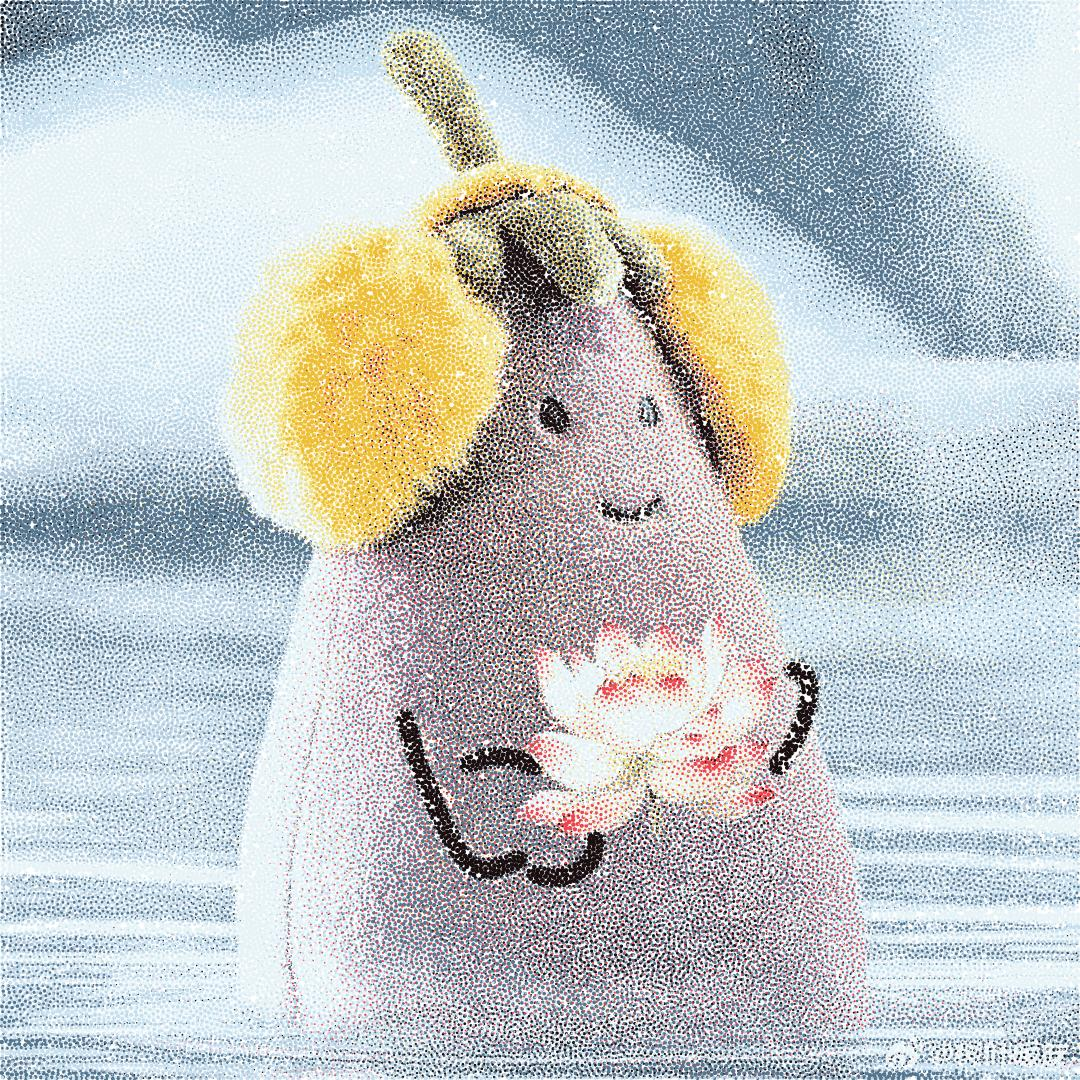
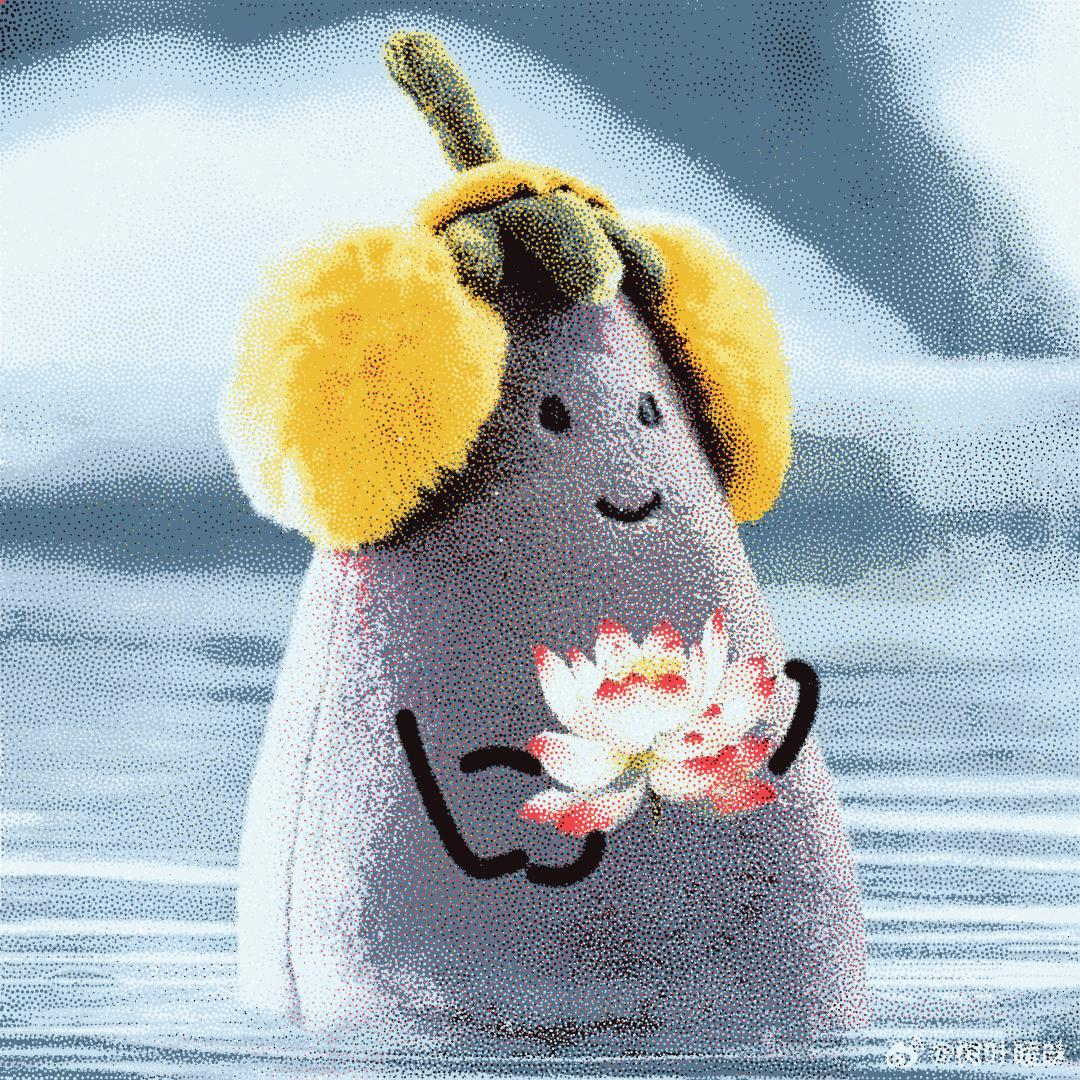
fill with color with bugs

diff --git a/MLBG/src/color.cpp b/MLBG/src/color.cpp
@@ -202,6 +202,142 @@ std::vector<Stipple> MLBG::stippling_color(Canvas *m_canvas, MLBG *m_mlbg, bool 
     return total_stipples;
 }
 
+std::vector<Stipple> MLBG::filling_color(std::vector<Stipple> foregroundStipples, Canvas *m_canvas, MLBG *m_mlbg)
+{
+    std::cout << "================= Begin filling ==================" << std::endl;
+
+    std::vector<Stipple> tempStipples;
+    std::vector<Stipple> backgroundStipples;
+
+    for (int i = 0; i < foregroundStipples.size(); i++) {
+        tempStipples.push_back(foregroundStipples[i]);
+        tempStipples[i].color = Qt::white;
+        // backgroundStipples.push_back(tempStipples[i]);
+        // backgroundStipples[i].size =  20.0f;
+    }
+
+    backgroundStipples.push_back(tempStipples[0]);
+
+//    QImage newImage = m_mlbg->paintBG(m_canvas, tempStipples, 0);
+//    tempStipples.clear();
+//    QImage newDensity = newImage.scaledToWidth(
+//                                    settings.supersampling_factor * newImage.width(),
+//                                    Qt::SmoothTransformation
+//                                    ).convertToFormat(QImage::Format_Grayscale8);
+
+//    QImage originImage = QImage(settings.image_path);
+//    QImage originDensity = originImage.scaledToWidth(
+//                                          settings.supersampling_factor * originImage.width(),
+//                                          Qt::SmoothTransformation
+//                                          ).convertToFormat(QImage::Format_Grayscale8);
+//    //    m_inv_density =
+
+
+
+    printf("here\n");
+
+    // stippling iteration
+    int num_split = 0;
+    int num_merge = 0;
+
+    //    std::this_thread::sleep_for(std::chrono::seconds(3));
+
+
+    for (int i = 0; i < 18; i++)
+    {
+        draw d;
+        std::cout << "Iteration: " << i << std::endl;
+
+        // cells
+        std::vector<Cell> voronoi_cells = generate_voronoi_cells_withDiffBGImage(backgroundStipples, d, m_density);
+//        std::vector<Cell> cells_originImage = generate_voronoi_cells_withDiffBGImage(backgroundStipples, d, originDensity);
+        std::vector< std::vector <Cell> > cells;
+        for (int j = 0; j < m_densities.size(); j++)
+        {
+            cells.push_back(generate_voronoi_cells_withDiffBGImage(backgroundStipples, d, m_densities[j]));
+        }
+
+        std::cout << "Current number of points: " << backgroundStipples.size() << std::endl;
+        //        std::vector<int> merge_indices_map
+
+        // current hysteresis
+        float hysteresis = settings.hysteresis + i * settings.hysteresis_delta;
+
+        backgroundStipples.clear();
+
+        for (unsigned long long cellId = 0; cellId < voronoi_cells.size(); cellId++)
+        {
+            const auto &cell = voronoi_cells[cellId];
+            float point_size = 4.0f;//current_stipple_size(cell);
+
+//            QColor stippleColor;
+//            if (cells_originImage[cellId].average_density >= cells_originImage[cellId].average_density_inv) {
+//                stippleColor = Qt::black;
+//            } else {
+//                stippleColor = Qt::white;
+//            }
+            // 创建一个pair数组，存储值和原始索引
+            std::vector<std::pair<float, int>> indexed_data;
+            for (int layer = 0; layer < cells.size(); layer++) {
+                indexed_data.push_back({cells[layer][cellId].average_density, layer});
+            }
+
+            // 对pair数组进行排序，基于第一个元素（实际的数据值）
+            std::sort(indexed_data.begin(), indexed_data.end());
+
+            // 排序后，最大值的pair在最后一个位置
+            auto& max_value_pair = indexed_data.back();
+//            std::cout << "最大值是: " << max_value_pair.first << std::endl;
+//                    std::cout << "最大值的原始ID (索引) 是: " << max_value_pair.second << std::endl;
+            QColor stippleColor = colors[max_value_pair.second];
+
+            if (false){//cell.total_density < calculate_lower_density_bound(point_size, hysteresis) || cell.area == 0.0f) {// merge
+                num_merge++;
+                d.drawPoints(cell.centroid.x() * m_size.width(), cell.centroid.y() * m_size.height(), stippleColor);
+                d.drawX(cell.centroid.x() * m_size.width(), cell.centroid.y() * m_size.height(), Qt::red);
+            }
+            else if (false){//(cell.total_density < calculate_upper_density_bound(point_size, hysteresis)) {// keep
+                backgroundStipples.push_back({cell.centroid, point_size, stippleColor});
+                d.drawPoints(cell.centroid.x() * m_size.width(), cell.centroid.y() * m_size.height(), stippleColor);
+            }
+            else // split
+            {
+                num_split++;
+                split_cell(backgroundStipples, cell, point_size, stippleColor, false);
+                d.drawPoints(cell.centroid.x() * m_size.width(), cell.centroid.y() * m_size.height(), stippleColor);
+                auto last = backgroundStipples.back();
+                auto secondLast = backgroundStipples[backgroundStipples.size() - 2];
+                d.drawPoints(last.pos.x() * m_size.width(), last.pos.y() * m_size.height(), Qt::green);
+                d.drawPoints(secondLast.pos.x() * m_size.width(), secondLast.pos.y() * m_size.height(), Qt::green);
+            }
+
+
+        }
+
+        if (num_split == 0 && num_merge == 0)
+            break;
+        num_split = 0;
+        num_merge = 0;
+
+        m_mlbg->paint(m_canvas, backgroundStipples, 20);
+
+        // Handle other events, allowing GUI updates
+        QCoreApplication::processEvents();
+
+    }
+
+    for (int i = 0; i < foregroundStipples.size(); i++) {
+        backgroundStipples.push_back(foregroundStipples[i]);
+    }
+
+    m_mlbg->paint(m_canvas, backgroundStipples, 20);
+
+    // Handle other events, allowing GUI updates
+    QCoreApplication::processEvents();
+
+    return foregroundStipples;
+}
+
 
 
 std::vector<Cell> MLBG::generate_voronoi_cells_color(std::vector<Stipple> points, std::vector<int> &indices, int id)

diff --git a/MLBG/src/mainwindow.cpp b/MLBG/src/mainwindow.cpp
@@ -67,6 +67,7 @@ MainWindow::MainWindow()
 //    addPushButton(layout, "Save Image", &MainWindow::onSaveButtonClick);
     addPushButton(layout, "Fill Background", &MainWindow::onFillButtonClick);
     addPushButton(layout, "Color Stippling", &MainWindow::onColorButtonClick);
+    addPushButton(layout, "Fill Color", &MainWindow::onFillColorButtonClick);
 }
 
 
@@ -187,6 +188,13 @@ void MainWindow::onFillButtonClick() {
 void MainWindow::onColorButtonClick() {
     MLBG m_mlbg = MLBG();
     std::vector<Stipple> stipples = m_mlbg.stippling_color(m_canvas, &m_mlbg, false);
+}
+
+void MainWindow::onFillColorButtonClick() {
+    MLBG m_mlbg = MLBG();
+    std::vector<Stipple> stipples = m_mlbg.stippling_color(m_canvas, &m_mlbg, false);
+    std::vector<Stipple> newstipples = m_mlbg.filling_color(stipples, m_canvas, &m_mlbg);
+    m_mlbg = MLBG();
 }
 
 void MainWindow::onSaveButtonClick() {

diff --git a/MLBG/src/mlbg.h b/MLBG/src/mlbg.h
@@ -29,6 +29,7 @@ public:
     //for color layers
     std::vector<Stipple> stippling_color(Canvas *m_canvas, MLBG *m_mlbg, bool isVoronoi);
     std::vector<Cell> generate_voronoi_cells_color(std::vector<Stipple> points, std::vector<int> &indices, int id);
+    std::vector<Stipple> filling_color(std::vector<Stipple> foregroundStipples, Canvas *m_canvas, MLBG *m_mlbg);
 
     std::vector<Cell> accumulateCells_color(const IndexMap& map, int id);
     std::vector<Stipple> init_stipples_color(QColor color, int id);

diff --git a/MLBG/src/mainwindow.h b/MLBG/src/mainwindow.h
@@ -42,4 +42,5 @@ private:
     void onStippleButtonClick();
     void onDrawVoronoiButtonClick();
     void onFillButtonClick();
+    void onFillColorButtonClick();
 };
